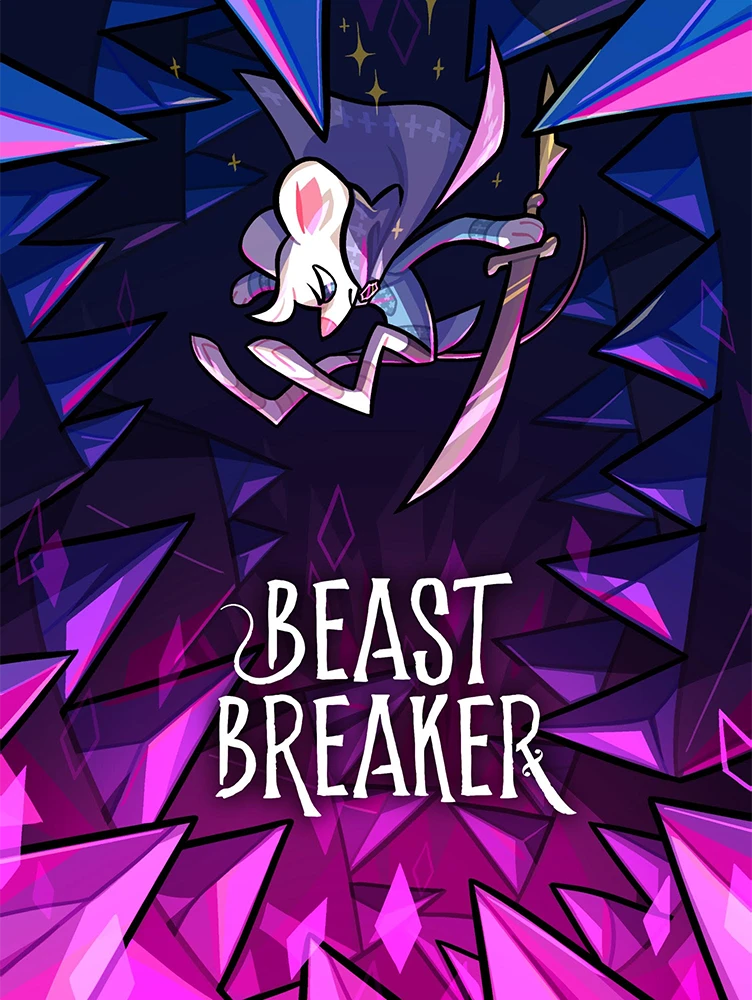
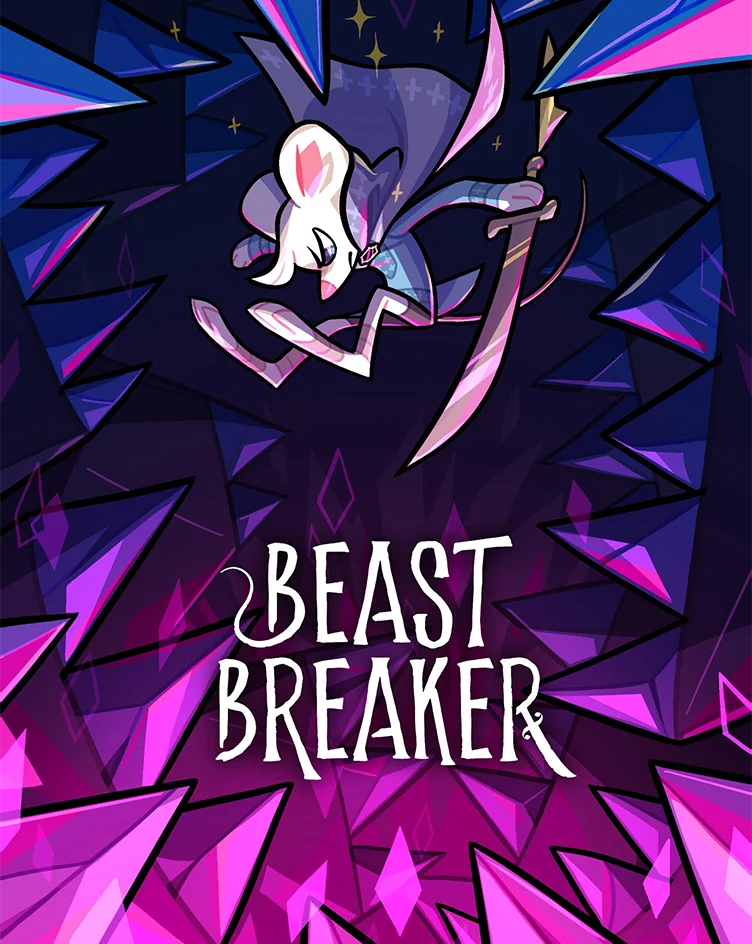
Shrinking poster art vertically

diff --git a/app/(home)/Grid.module.css b/app/(home)/Grid.module.css
@@ -4,7 +4,6 @@
   margin-left: auto;
   margin-right: auto;
   grid-template-columns: repeat(12, 88px);
-  grid-template-rows: 500px;
   grid-auto-rows: 88px;
   gap: 8px;
 }

diff --git a/app/(home)/GridCell.module.css b/app/(home)/GridCell.module.css
@@ -16,6 +16,7 @@
 
   &.poster {
     grid-column-end: span 4;
+    grid-row-end: span 5;
 
     &:hover {
       transform: scale(103%);
